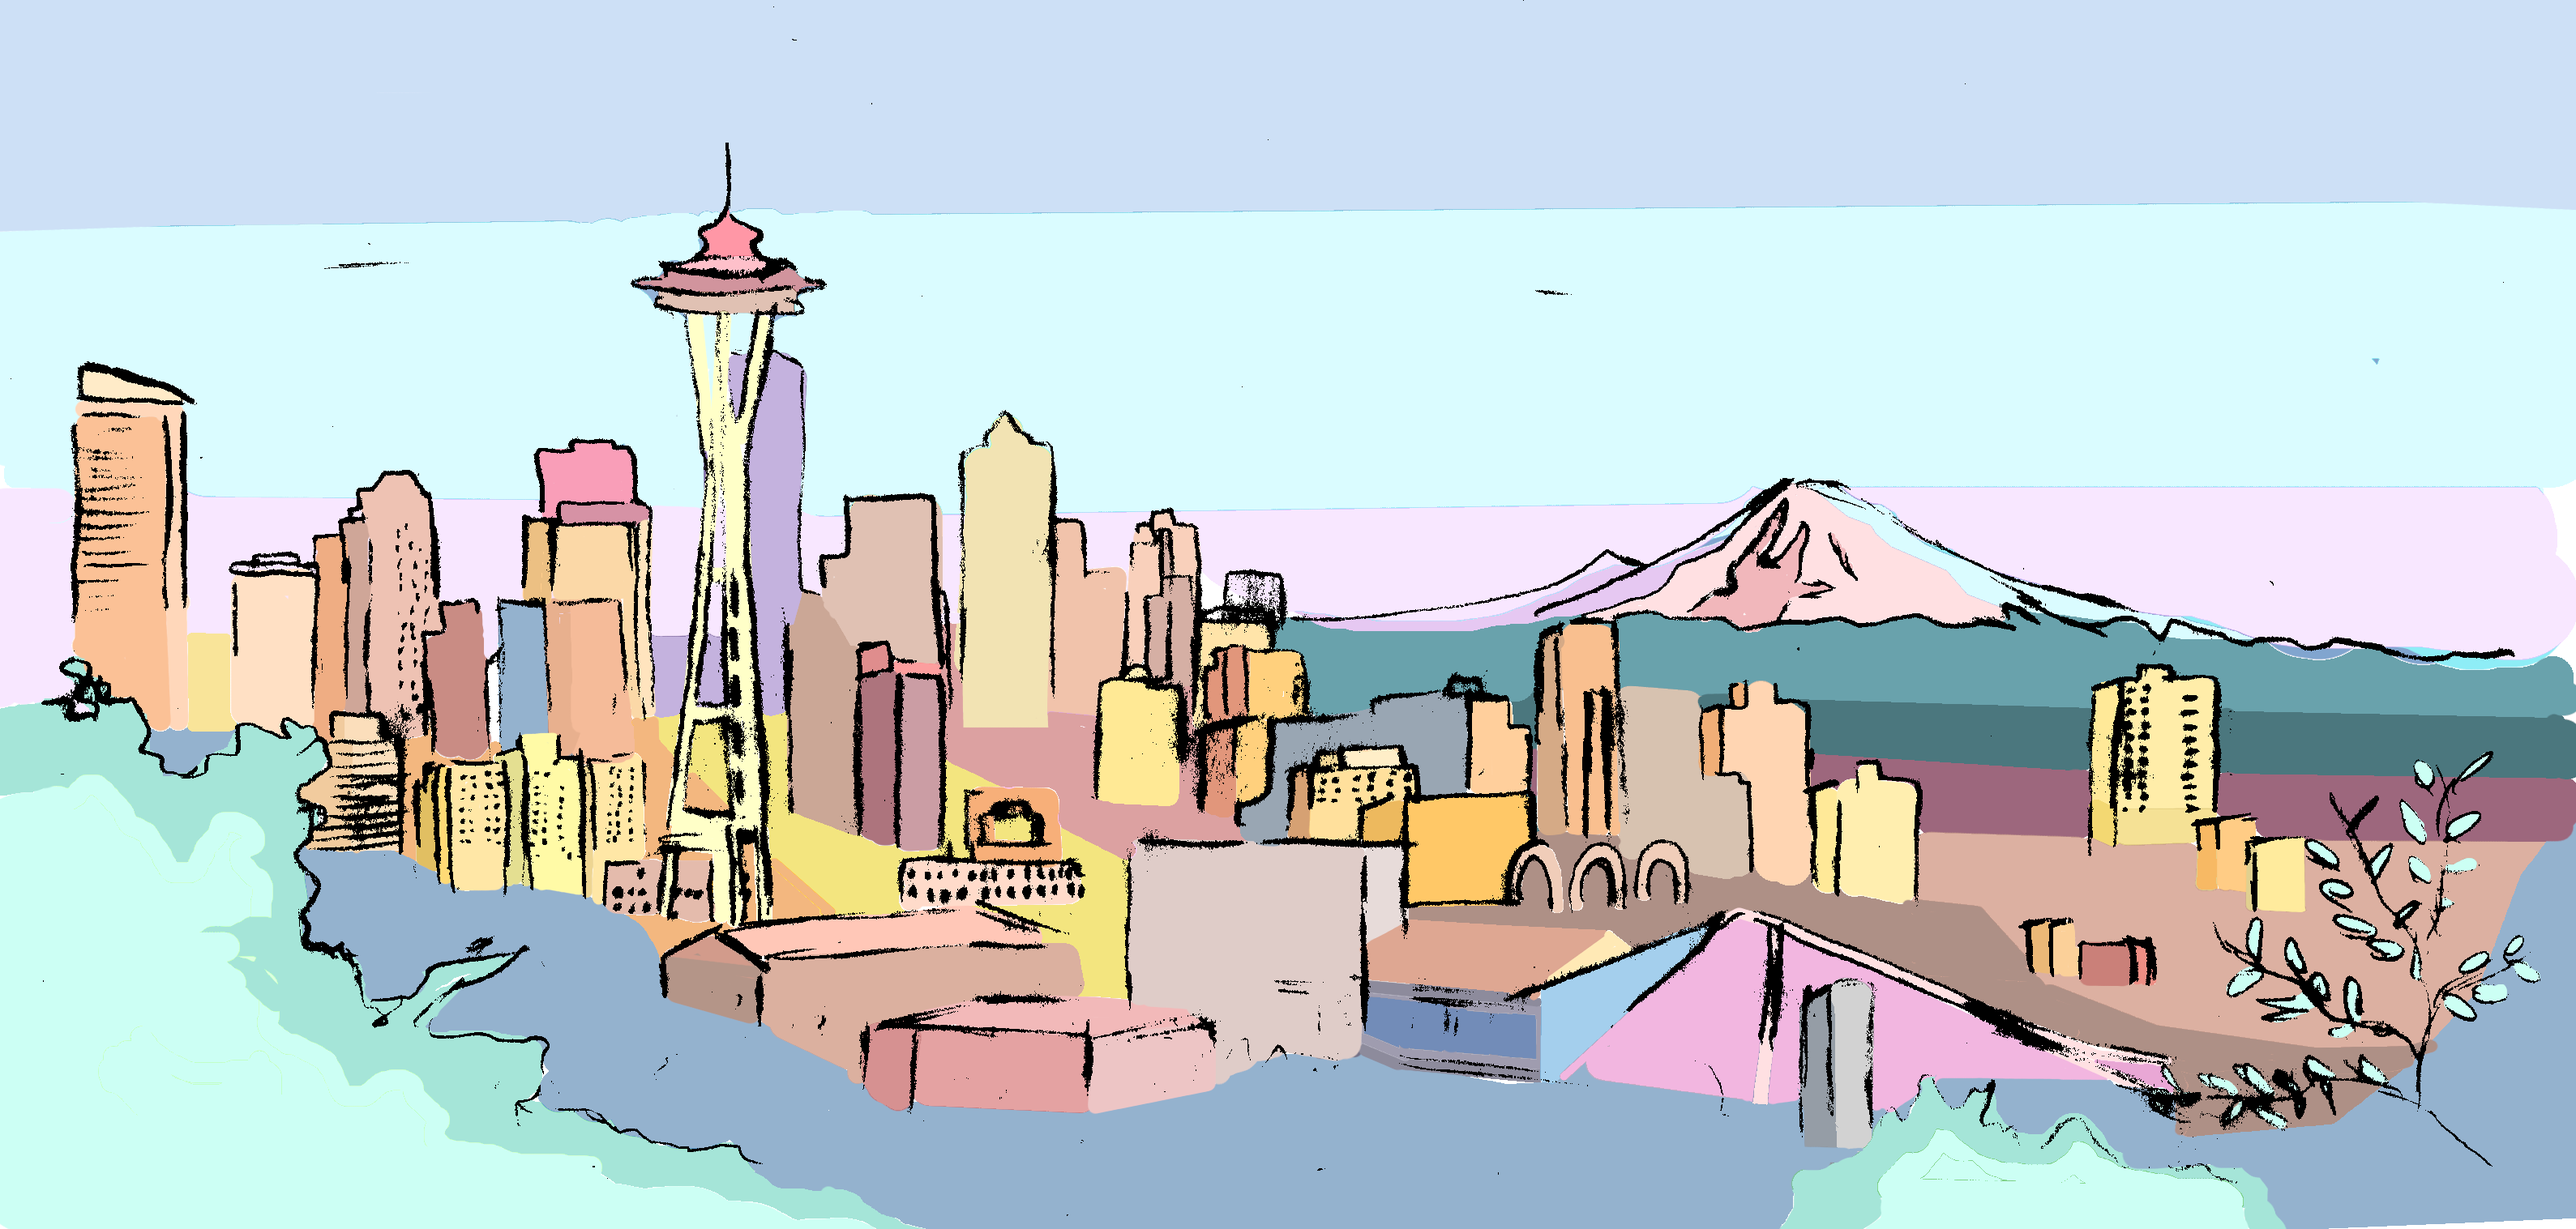
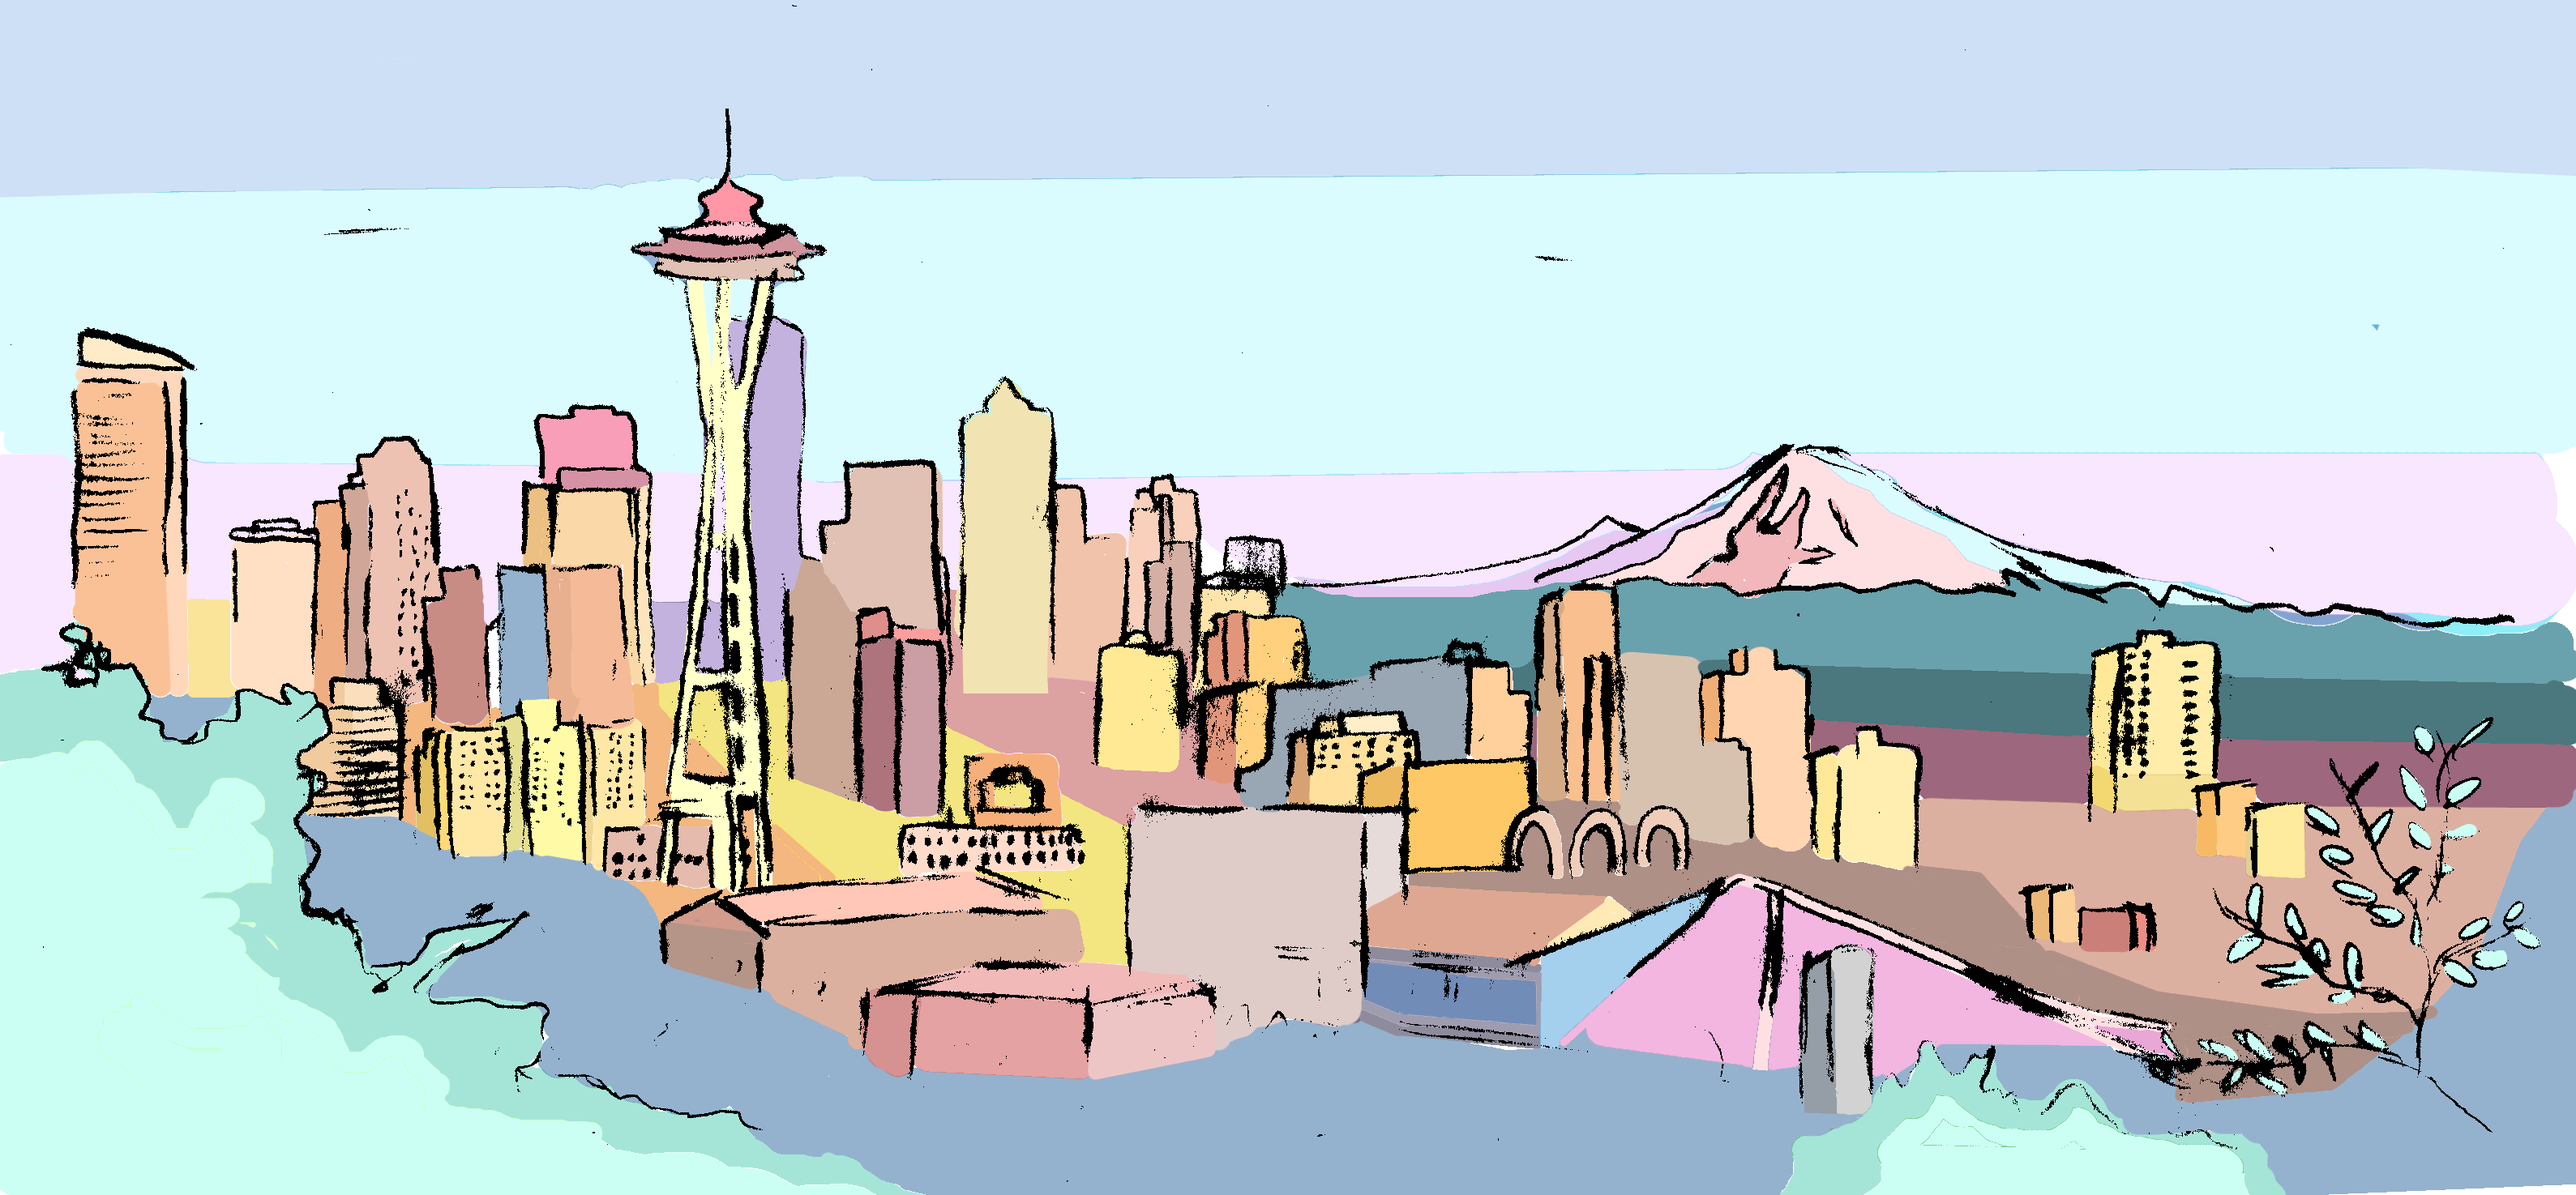
adjusted background pic

diff --git a/carousel2.css b/carousel2.css
@@ -2,8 +2,7 @@
   overflow: hidden;
   position: relative;
   width: 100%;
-  height: 275px;
-  padding-top: 7%;
+  height: 400px;
   -webkit-perspective: 500px;
           perspective: 500px;
   -webkit-transform-style: preserve-3d;
@@ -12,15 +11,49 @@
           transform-origin: 0% 50%;
 }
 
+.carousel.carousel-slider {
+  top: 0;
+  left: 0;
+}
+
+.carousel.carousel-slider .carousel-fixed-item {
+  position: absolute;
+  left: 0;
+  right: 0;
+  bottom: 20px;
+  z-index: 1;
+}
+
+.carousel.carousel-slider .carousel-fixed-item.with-indicators {
+  bottom: 68px;
+}
+
+.carousel.carousel-slider .carousel-item {
+  width: 100%;
+  height: 100%;
+  min-height: 400px;
+  position: absolute;
+  top: 0;
+  left: 0;
+}
+
+.carousel.carousel-slider .carousel-item h2 {
+  font-size: 24px;
+  font-weight: 500;
+  line-height: 32px;
+}
+
+.carousel.carousel-slider .carousel-item p {
+  font-size: 15px;
+}
+
 .carousel .carousel-item {
   visibility: hidden;
-  width: 400px;
-  max-width: 90vw;
-  height: 275px;
+  width: 200px;
+  height: 200px;
   position: absolute;
-  top: -4%;
-  right: auto;
-  left: auto;
+  top: 0;
+  left: 0;
 }
 
 .carousel .carousel-item > img {
@@ -28,7 +61,6 @@
 }
 
 .carousel .indicators {
-  padding-left: 0;
   position: absolute;
   text-align: center;
   left: 0;
@@ -43,7 +75,7 @@
   cursor: pointer;
   height: 8px;
   width: 8px;
-  margin: 5px 4px;
+  margin: 24px 4px;
   background-color: rgba(255, 255, 255, 0.5);
   -webkit-transition: background-color .3s;
   transition: background-color .3s;

diff --git a/style.css b/style.css
@@ -49,8 +49,10 @@ section {
 
 #about {
   background-image: url('img/seattle_back.PNG');
-	background-size: cover;
+  background-repeat: no-repeat;
+	background-size: contain;
   height: 70vh;
+  min-height: 410px;
 }
 
 #about-portrait {
@@ -58,19 +60,20 @@ section {
   display: inline;
   top: 2%;
   right: 5%;
-  height: 70vh;
+  height: 100%;
   z-index: 2;
 }
 
 #about-hover {
   position: absolute;
   bottom: 0;
+  margin-top: 5%;
   padding: 5% 0% 2% 0;
   display: flex;
   flex-direction: column;
   justify-content: center;
-  background-image: linear-gradient(rgba(0, 0, 0, 0), rgba(0, 0, 0, 0.5),
-                                    rgba(0, 0, 0, 0.6), rgba(0, 0, 0, 0.7));
+  background-image: linear-gradient(rgba(89, 89, 89, 0), rgba(89, 89, 89, 0.5),
+                                    rgb(89, 89, 89), rgb(89, 89, 89));
 }
 
 /* 'Projects' Section */
@@ -277,8 +280,18 @@ em {
     width: 100%;
   }
 
+  #about {
+    background-size: cover;
+    background-position: 33% 0;
+  }
+
   #about-portrait {
     right: 7.5vw;
+  }
+
+  #about-hover {
+    background-image: linear-gradient(rgba(89, 89, 89, 0), rgba(89, 89, 89, 0.7),
+                                      rgba(89, 89, 89, 0.9), rgba(89, 89, 89, 0.95));
   }
 
   /* NAVIGATION BAR */
@@ -358,7 +371,7 @@ em {
 @media (max-width: 414px) {
 
   #about-hover p {
-    padding-right: 0;
+    padding-right: 1rem;
   }
 
   #about-portrait {

diff --git a/index.html b/index.html
@@ -30,9 +30,9 @@
         <h3>ABOUT</h3>
         <p><em>Hello, my name is Tyler Marcinyshyn.</em></p>
         <p>
-        I'm an intended Informatics major at the University
-        of Washington, where I study web & interaction design. I pride myself on emphasizing visual
-        charm without need for sacrificing the qualities of inclusive design.
+        Over the past three years, I've attended University of Washington,
+        where I studied web & interaction design. I pride myself on emphasizing
+        visual charm without need for sacrificing the qualities of inclusive design.
         </p>
       </div>
       <div id="about-text">
